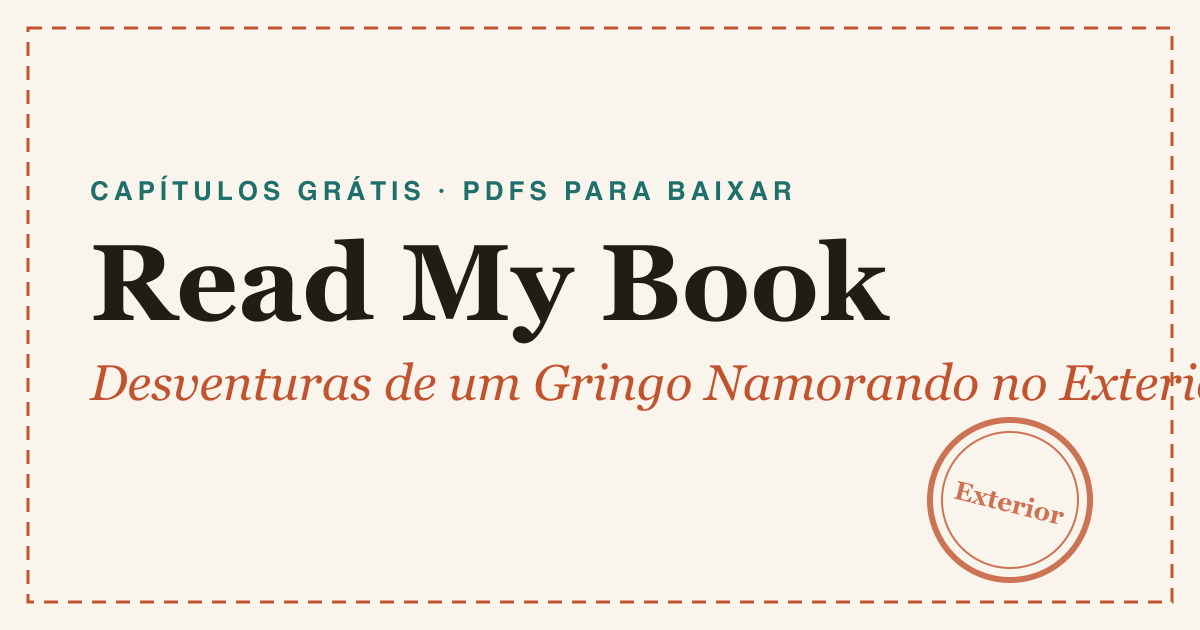
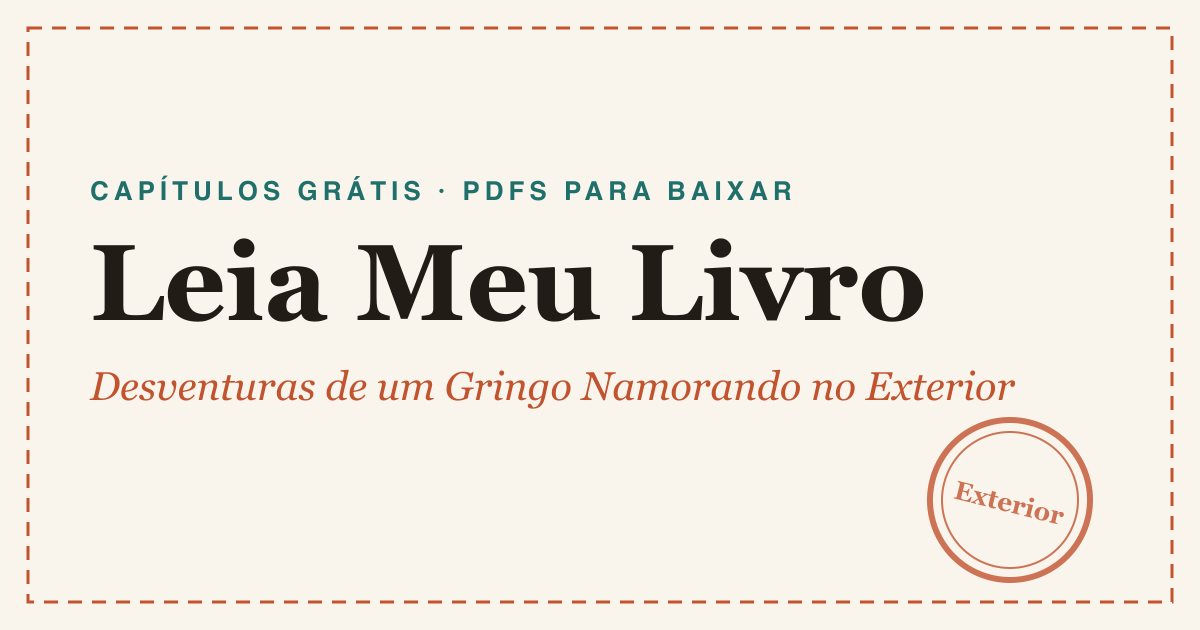
Fix chapter detection for headings near the top of the page
Large chapter headings close to the top margin were mistaken for running
heads, so no chapters were found. Only small text there is skipped now.
Titles that wrap onto a second line are joined. Introduction/Epilogue
sections get a label ("Introduction", "Introdução") that the site shows
instead of "Chapter 0". The Portuguese title is now Leia Meu Livro, to
match the manuscript.

Changed region(s): [[0.0925, 0.3619, 0.7708, 0.5429], [0.0617, 0.573, 1.0, 0.6635]]

diff --git a/src/i18n/ui.ts b/src/i18n/ui.ts
@@ -53,7 +53,7 @@ export const ui = {
     // Home
     heroEyebrow: 'A book in progress · released chapter by chapter',
     heroLede: 'Free chapters, straight from the manuscript. Read them here, take them with you as a PDF, and come back when the next one drops.',
-    startWith: (n: number) => `Start with Chapter ${n}`,
+    startWith: (label: string) => `Start with ${label}`,
     newestChapter: 'Newest chapter',
     allChapters: 'All chapters →',
     followTitle: 'New chapters drop on Instagram first',
@@ -69,7 +69,7 @@ export const ui = {
     chaptersDescription: 'Every chapter released so far.',
     comingOn: (d: string) => `Coming ${d}`,
     minRead: (n: number) => `${n} min read`,
-    endOf: (n: number) => `End of Chapter ${n}`,
+    endOf: (label: string) => `End of ${label}`,
     takeWithYou: 'Take it with you',
     share: 'Share this chapter',
     linkCopied: 'Link copied',
@@ -121,11 +121,11 @@ export const ui = {
     keepAwake: 'Keep screen on while reading',
     done: 'Done',
     resume: 'Continue where you left off · {pct}%', // {pct} is filled in on the reader's device
-    continueChapter: 'Continue Chapter {n}',
+    continueChapter: 'Continue {ch}', // {ch} = "Chapter 3" or "Introduction"
     readBadge: '✓ Read',
     pctRead: '{pct}% read',
 
-    // Feedback via WhatsApp. {name}, {n}, {title}, {emoji}, {label}, {quote} are filled in on the page.
+    // Feedback via WhatsApp. {name}, {ch}, {title}, {emoji}, {label}, {quote} are filled in on the page.
     feedbackTitle: 'How did that one land?',
     feedbackBody: 'Tap a reaction. If you want, send it to me on WhatsApp, along with anything else you want to say.',
     reactions: [
@@ -136,8 +136,8 @@ export const ui = {
       { id: 'more', emoji: '🔥', label: 'Need more' },
     ],
     reactionThanks: 'Got it, thanks! Want to tell me more?',
-    waReactionMsg: 'Hey {name}! I just read Chapter {n}, "{title}": {emoji} {label}.\n\n',
-    waQuoteMsg: 'Hey {name}! This line from Chapter {n}, "{title}", got me:\n\n"{quote}"\n\n',
+    waReactionMsg: 'Hey {name}! I just read "{title}" ({ch}): {emoji} {label}.\n\n',
+    waQuoteMsg: 'Hey {name}! This line from "{title}" ({ch}) got me:\n\n"{quote}"\n\n',
     waGeneralMsg: "Hey {name}! I'm reading Read My Book and ",
     waSend: 'Send on WhatsApp',
     waEditHint: 'Edit the message before you send it',
@@ -147,9 +147,9 @@ export const ui = {
   },
 
   pt: {
-    bookTitle: 'Read My Book',
+    bookTitle: 'Leia Meu Livro',
     bookSubtitle: 'Desventuras de um Gringo Namorando no Exterior',
-    description: 'Capítulos grátis, PDFs para baixar e novos lançamentos de "Read My Book: Desventuras de um Gringo Namorando no Exterior."',
+    description: 'Capítulos grátis, PDFs para baixar e novos lançamentos de "Leia Meu Livro: Desventuras de um Gringo Namorando no Exterior."',
 
     navChapters: 'Capítulos',
     navDownloads: 'Downloads',
@@ -173,7 +173,7 @@ export const ui = {
 
     heroEyebrow: 'Um livro em andamento · lançado capítulo por capítulo',
     heroLede: 'Capítulos grátis, direto do manuscrito. Leia aqui, leve em PDF e volte quando o próximo sair.',
-    startWith: (n: number) => `Comece pelo Capítulo ${n}`,
+    startWith: (label: string) => `Comece por aqui: ${label}`,
     newestChapter: 'Capítulo mais recente',
     allChapters: 'Todos os capítulos →',
     followTitle: 'Os novos capítulos saem primeiro no Instagram',
@@ -188,7 +188,7 @@ export const ui = {
     chaptersDescription: 'Todos os capítulos lançados até agora.',
     comingOn: (d: string) => `Chega em ${d}`,
     minRead: (n: number) => `${n} min de leitura`,
-    endOf: (n: number) => `Fim do Capítulo ${n}`,
+    endOf: (label: string) => `Você terminou: ${label}`,
     takeWithYou: 'Leve com você',
     share: 'Compartilhar capítulo',
     linkCopied: 'Link copiado',
@@ -236,7 +236,7 @@ export const ui = {
     keepAwake: 'Manter a tela ligada durante a leitura',
     done: 'Pronto',
     resume: 'Continuar de onde parou · {pct}%',
-    continueChapter: 'Continuar o Capítulo {n}',
+    continueChapter: 'Continuar: {ch}',
     readBadge: '✓ Lido',
     pctRead: '{pct}% lido',
 
@@ -250,9 +250,9 @@ export const ui = {
       { id: 'more', emoji: '🔥', label: 'Quero mais' },
     ],
     reactionThanks: 'Anotado, valeu! Quer me contar mais?',
-    waReactionMsg: 'Oi {name}! Acabei de ler o Capítulo {n}, "{title}": {emoji} {label}.\n\n',
-    waQuoteMsg: 'Oi {name}! Esse trecho do Capítulo {n}, "{title}", me pegou:\n\n"{quote}"\n\n',
-    waGeneralMsg: 'Oi {name}! Estou lendo o Read My Book e ',
+    waReactionMsg: 'Oi {name}! Acabei de ler "{title}" ({ch}): {emoji} {label}.\n\n',
+    waQuoteMsg: 'Oi {name}! Esse trecho de "{title}" ({ch}) me pegou:\n\n"{quote}"\n\n',
+    waGeneralMsg: 'Oi {name}! Estou lendo o Leia Meu Livro e ',
     waSend: 'Enviar no WhatsApp',
     waEditHint: 'Edite a mensagem antes de enviar',
     waFrom: 'abre o WhatsApp',

diff --git a/src/scripts/feedback.ts b/src/scripts/feedback.ts
@@ -35,6 +35,7 @@ function initReactions(open: (t: string) => string, name: string, base: Record<s
   const text = document.getElementById('feedback-text') as HTMLTextAreaElement;
   const send = document.getElementById('feedback-send') as HTMLAnchorElement;
   const chapter = Number(box.dataset.chapter);
+  const ch = box.dataset.label!;
   const title = box.dataset.title!;
   let reaction = '';
   let prefilled = '';
@@ -48,7 +49,7 @@ function initReactions(open: (t: string) => string, name: string, base: Record<s
       reaction = btn.dataset.reaction!;
       // Replace the pre-written part, keep anything the reader already added
       const extra = text.value.startsWith(prefilled) ? text.value.slice(prefilled.length) : '';
-      prefilled = fill(box.dataset.msg!, { name, n: chapter, title, emoji: btn.dataset.emoji!, label: btn.dataset.label! });
+      prefilled = fill(box.dataset.msg!, { name, ch, title, emoji: btn.dataset.emoji!, label: btn.dataset.label! });
       text.value = prefilled + extra;
       sync();
       chat.hidden = false;
@@ -78,6 +79,7 @@ function initQuotes(open: (t: string) => string, name: string, base: Record<stri
   const btn = document.getElementById('quote-btn') as HTMLAnchorElement | null;
   if (!prose || !article || !btn) return;
   const chapter = Number(article.dataset.chapter);
+  const ch = article.dataset.label!;
   const title = article.dataset.title!;
   let quote = '';
 
@@ -94,7 +96,7 @@ function initQuotes(open: (t: string) => string, name: string, base: Record<stri
     const text = sel.toString().replace(/\s+/g, ' ').trim();
     if (text.length < 12 || text.length > 600) return hide();
     quote = text;
-    btn.href = open(fill(btn.dataset.msg!, { name, n: chapter, title, quote }));
+    btn.href = open(fill(btn.dataset.msg!, { name, ch, title, quote }));
     // Below the selection: phones put their own copy/paste menu above it
     const rect = range.getBoundingClientRect();
     const top = window.scrollY + rect.bottom + 12;

diff --git a/src/lib/content.ts b/src/lib/content.ts
@@ -1,5 +1,5 @@
 import { getCollection, type CollectionEntry } from 'astro:content';
-import { DEFAULT_LANG, LANGS, isLang, localePath, type Lang } from '../i18n/ui';
+import { DEFAULT_LANG, LANGS, isLang, localePath, t, type Lang } from '../i18n/ui';
 
 export type Chapter = CollectionEntry<'chapters'>;
 
@@ -40,5 +40,8 @@ export function readingMinutes(body = ''): number {
 export function formatDate(d: Date, lang: Lang): string {
   return d.toLocaleDateString(LANGS[lang].locale, { year: 'numeric', month: 'short', day: 'numeric', timeZone: 'UTC' });
 }
+
+/** "Chapter 3", or the section's own label ("Introduction", "Introdução") */
+export const chapterLabel = (c: Chapter) => c.data.label ?? t(chapterLang(c)).chapter(c.data.number);
 
 export const chapterUrl = (c: Chapter) => localePath(chapterLang(c), `/chapters/${chapterSlug(c)}/`);

diff --git a/src/scripts/progress.ts b/src/scripts/progress.ts
@@ -3,6 +3,7 @@
 
 export interface Progress {
   number: number;
+  label?: string; // "Chapter 3" / "Introduction"
   url: string;
   pct: number; // 0..100, position of the top of the screen in the chapter text
   finished: boolean;
@@ -63,7 +64,7 @@ export function initProgressUI() {
   const current = allProgress(lang).find((p) => !p.finished && p.pct >= 3);
   if (cta && current) {
     cta.href = current.url;
-    cta.textContent = fill(cta.dataset.continue!, { n: current.number });
+    cta.textContent = fill(cta.dataset.continue!, { ch: current.label ?? String(current.number) });
     cta.dataset.propCta = 'continue_reading';
   }
 }

diff --git a/src/content.config.ts b/src/content.config.ts
@@ -15,6 +15,8 @@ const chapters = defineCollection({
   loader: glob({ pattern: '**/*.md', base: './src/content/chapters' }),
   schema: z.object({
     number: z.number(),
+    // shown instead of "Chapter N" for non-numbered sections, e.g. "Introduction", "Epilogue"
+    label: z.string().optional(),
     title: z.string(),
     excerpt: z.string(),
     location: z.string().optional(), // where the misadventure happened

diff --git a/src/scripts/reading.ts b/src/scripts/reading.ts
@@ -106,6 +106,7 @@ export function initReading(article: HTMLElement, prose: HTMLElement, end: HTMLE
   };
   const position = () => ({
     number: base.chapter,
+    label: article.dataset.label,
     url: location.pathname,
     pct: Math.round(topPct() * 10) / 10,
     finished: finished || !!saved?.finished,
